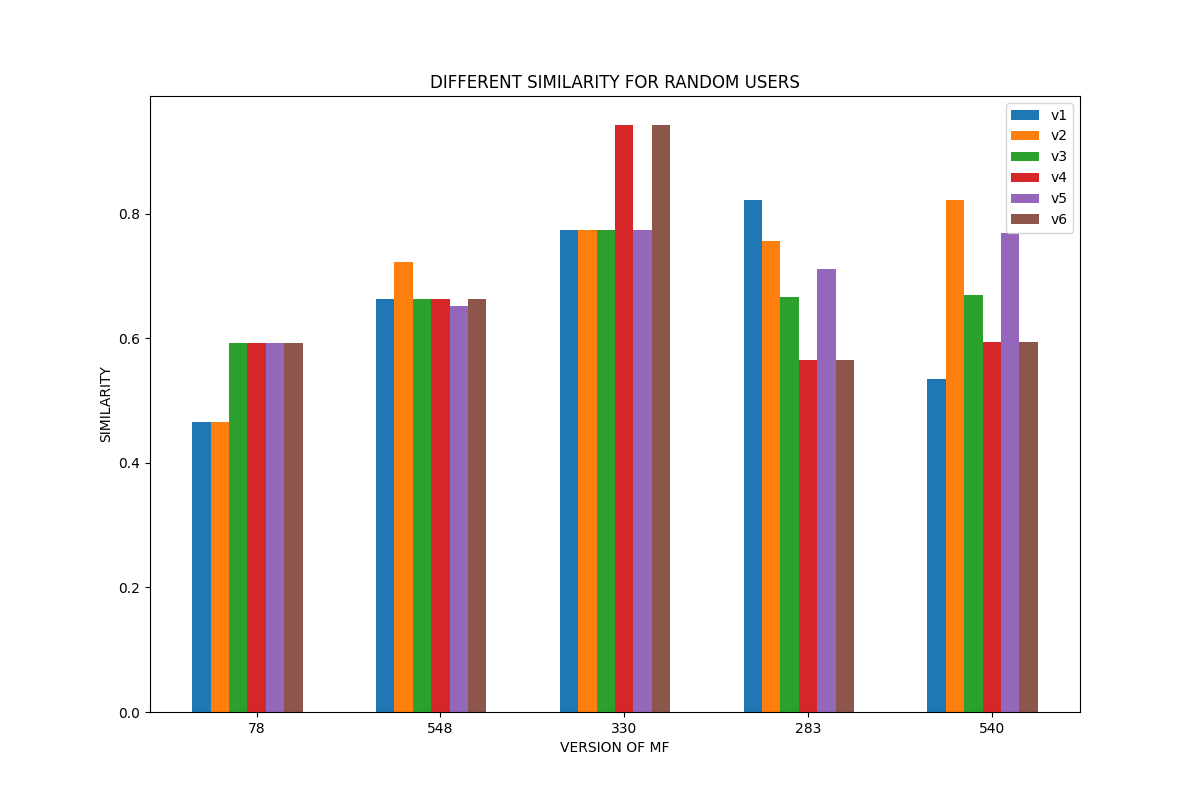
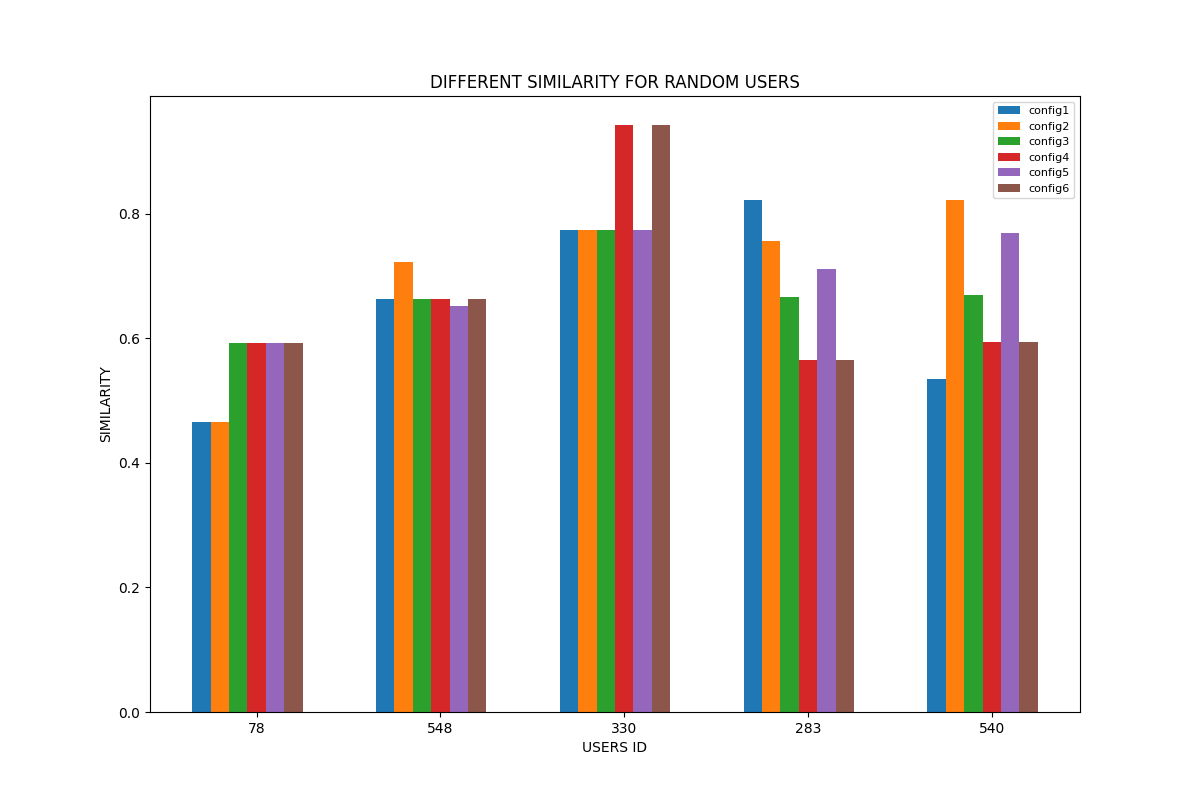
Fix evaluation problems

Changed region(s): [[0.8325, 0.125, 0.8942, 0.2812], [0.4625, 0.9062, 0.555, 0.9375]]

diff --git a/Code development/Evaluation/ncf_evaluation.py b/Code development/Evaluation/ncf_evaluation.py
@@ -52,12 +52,12 @@ if __name__ == "__main__":
         if (ncf4[i] == maxSim): ncfCount4 += 1
         if (ncf5[i] == maxSim): ncfCount5 += 1
         if (ncf6[i] == maxSim): ncfCount6 += 1
-    version = ['v1', 'v2', 'v3', 'v4', 'v5', 'v6']
+    version = ['config1', 'config2', 'config3', 'config4', 'config5', 'config6']
     versionSim = [ncfCount1, ncfCount2, ncfCount3, ncfCount4, ncfCount5, ncfCount6]
     plt.bar(version, versionSim)
-    plt.xlabel('VERSIONS')
+    plt.xlabel('CONFIGURATIONS')
     plt.ylabel('NUMBER OF USERS')
-    plt.title('NUMBER OF USERS WITH DIFFERENT VERSIONS')
+    plt.title('NUMBER OF USERS WITH DIFFERENT CONFIGURATIONS')
     plt.savefig('../Images/number_users_ncf.png')
     plt.show()
 
@@ -79,16 +79,16 @@ if __name__ == "__main__":
 
     # Plot the similarities of different versions for the random users
     plt.figure(figsize=(12,8))
-    plt.bar(X_axis-0.3, ncfUsersSim1, width/7, label='v1')
-    plt.bar(X_axis-0.2, ncfUsersSim2, width/7, label='v2')
-    plt.bar(X_axis-0.1, ncfUsersSim3, width/7, label='v3')
-    plt.bar(X_axis+0, ncfUsersSim4, width/7, label='v4')
-    plt.bar(X_axis+0.1, ncfUsersSim5, width/7, label='v5')
-    plt.bar(X_axis+0.2, ncfUsersSim6, width/7, label='v6')
+    plt.bar(X_axis-0.3, ncfUsersSim1, width/7, label='config1')
+    plt.bar(X_axis-0.2, ncfUsersSim2, width/7, label='config2')
+    plt.bar(X_axis-0.1, ncfUsersSim3, width/7, label='config3')
+    plt.bar(X_axis+0, ncfUsersSim4, width/7, label='config4')
+    plt.bar(X_axis+0.1, ncfUsersSim5, width/7, label='config5')
+    plt.bar(X_axis+0.2, ncfUsersSim6, width/7, label='config6')
     plt.xticks(X_axis, randomUsers)
-    plt.legend(loc='upper right', prop={"size": 10})
+    plt.legend(loc='upper right', prop={"size": 8})
     plt.title('DIFFERENT SIMILARITY FOR RANDOM USERS')
-    plt.xlabel('VERSION OF NCF')
+    plt.xlabel('USER ID')
     plt.ylabel('SIMILARITY')
     plt.savefig('../Images/ncf_random_users.png', dpi=100)
 
@@ -99,9 +99,9 @@ if __name__ == "__main__":
     plt.figure()
     plt.cla()
     plt.bar(version, accuracy)
-    plt.xlabel('VERSIONS')
+    plt.xlabel('CONFIGURATIONS')
     plt.ylabel('ACCURACY')
-    plt.title('ACCURACY FOR DIFFERENT VERSIONS')
+    plt.title('ACCURACY FOR DIFFERENT CONFIGURATIONS')
     
     plt.savefig('../Images/accuracy_ncf.png')
     plt.show()

diff --git a/Code development/Evaluation/mf_evaluation.py b/Code development/Evaluation/mf_evaluation.py
@@ -53,12 +53,12 @@ if __name__ == "__main__":
         if maxSim == mf5[i]: mfCount5 += 1
         if maxSim == mf6[i]: mfCount6 += 1
 
-    version = ['v1', 'v2', 'v3', 'v4', 'v5', 'v6']
+    version = ['config1', 'config2', 'config3', 'config4', 'config5', 'config6']
     versionSim = [mfCount1, mfCount2, mfCount3, mfCount4, mfCount5, mfCount6]
     plt.bar(version, versionSim)
-    plt.xlabel('VERSIONS')
+    plt.xlabel('CONFIGURATIONS')
     plt.ylabel('NUMBER OF USERS')
-    plt.title('NUMBER OF USERS WITH DIFFERENT VERSIONS')
+    plt.title('NUMBER OF USERS WITH DIFFERENT CONFIGURATIONS')
     plt.savefig('../Images/number_users_mf.png')
     plt.show()
 
@@ -80,16 +80,16 @@ if __name__ == "__main__":
 
     # Plot the similarities of different versions for the random users
     plt.figure(figsize=(12,8))
-    plt.bar(X_axis-0.3, mfUsersSim1, width/6, label='v1')
-    plt.bar(X_axis-0.2, mfUsersSim2, width/6, label='v2')
-    plt.bar(X_axis-0.1, mfUsersSim3, width/6, label='v3')
-    plt.bar(X_axis+0, mfUsersSim4, width/6, label='v4')
-    plt.bar(X_axis+0.1, mfUsersSim5, width/6, label='v5')
-    plt.bar(X_axis+0.2, mfUsersSim6, width/6, label='v6')
+    plt.bar(X_axis-0.3, mfUsersSim1, width/6, label='config1')
+    plt.bar(X_axis-0.2, mfUsersSim2, width/6, label='config2')
+    plt.bar(X_axis-0.1, mfUsersSim3, width/6, label='config3')
+    plt.bar(X_axis+0, mfUsersSim4, width/6, label='config4')
+    plt.bar(X_axis+0.1, mfUsersSim5, width/6, label='config5')
+    plt.bar(X_axis+0.2, mfUsersSim6, width/6, label='config6')
     plt.xticks(X_axis, randomUsers)
-    plt.legend(loc='upper right', prop={"size": 10})
+    plt.legend(loc='upper right', prop={"size": 8})
     plt.title('DIFFERENT SIMILARITY FOR RANDOM USERS')
-    plt.xlabel('VERSION OF MF')
+    plt.xlabel('USERS ID')
     plt.ylabel('SIMILARITY')
     plt.savefig('../Images/mf_random_users.png', dpi=100)
 
